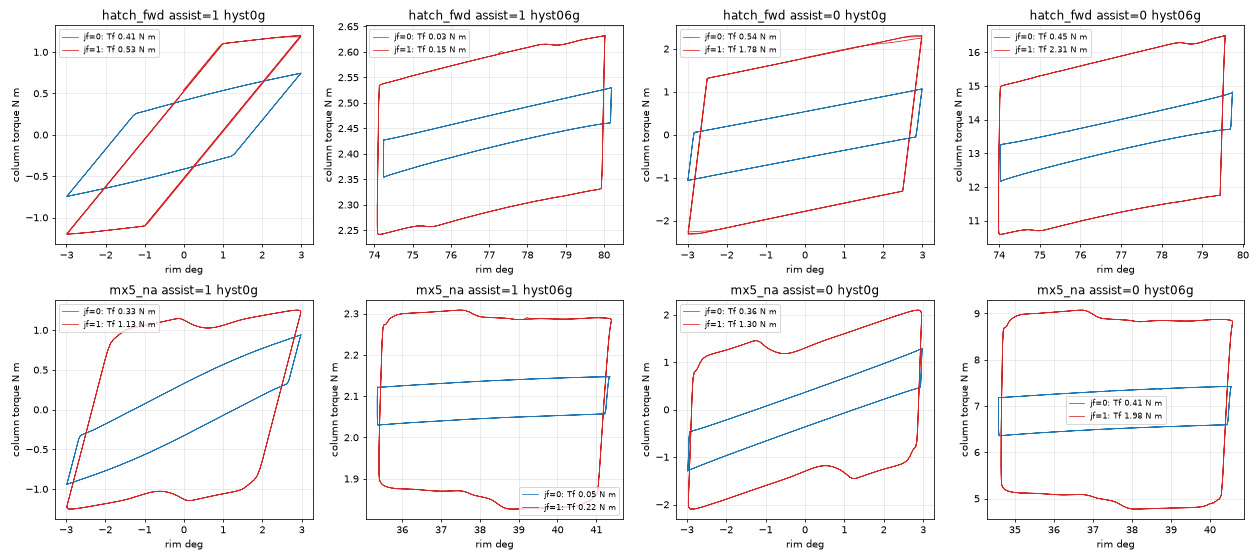
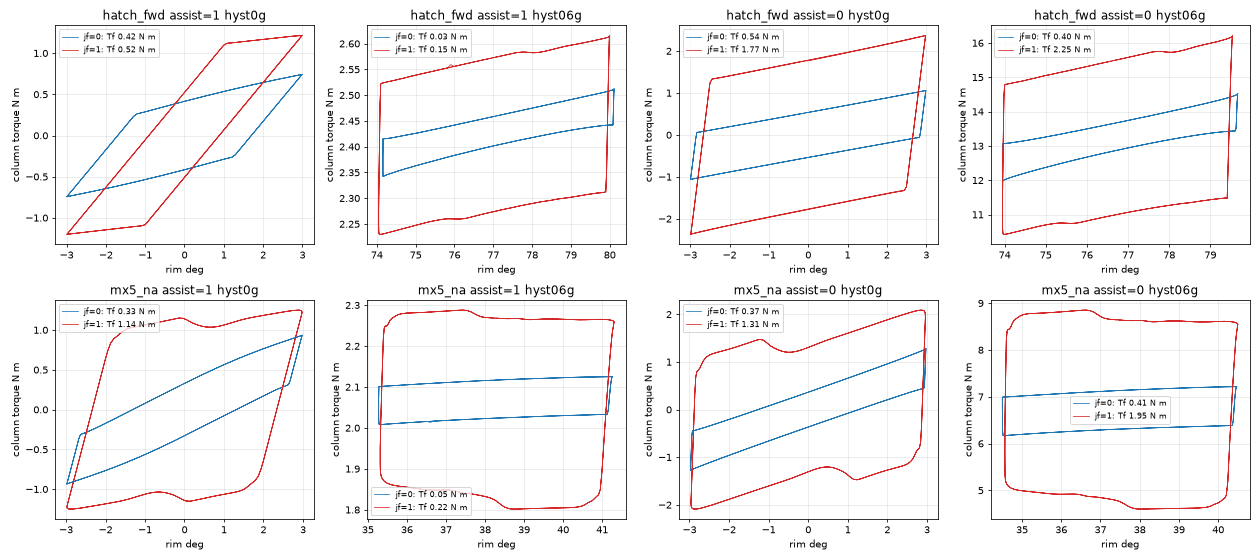
Joint friction: hysteresis re-validated on the current build (rim friction +50 % mx5 / +27 % hatch from 0 to 0.6 g, manual rack); refreshed table, loops, summary

diff --git a/docs/JOINT_FRICTION.md b/docs/JOINT_FRICTION.md
@@ -90,21 +90,21 @@ Rig: `PSET="car.joint_friction=J;steer.assist=A" build/mbcompare cars/<car>.ini 
 
 | car | assist | case | rim friction jf=0 (N m) | jf=1 (N m) | rack friction jf=0 (N) | jf=1 (N) |
 |---|---|---|---|---|---|---|
-| mx5_na | on | 0 g | 0.33 | 1.13 | 56 | 131 |
-| mx5_na | on | 0.6 g | 0.05 | 0.22 | 59 | 153 |
+| mx5_na | on | 0 g | 0.33 | 1.14 | 56 | 131 |
+| mx5_na | on | 0.6 g | 0.05 | 0.22 | 59 | 152 |
 | mx5_na | off | 0 g | 0.36 | 1.30 | 59 | 140 |
-| mx5_na | off | 0.6 g | 0.41 | 1.98 | 59 | 153 |
-| hatch_fwd | on | 0 g | 0.41 | 0.53 | 51 | 109 |
-| hatch_fwd | on | 0.6 g | 0.03 | 0.15 | 59 | 175 |
-| hatch_fwd | off | 0 g | 0.54 | 1.78 | 58 | 135 |
-| hatch_fwd | off | 0.6 g | 0.45 | 2.31 | 58 | 172 |
+| mx5_na | off | 0.6 g | 0.41 | 1.95 | 59 | 152 |
+| hatch_fwd | on | 0 g | 0.42 | 0.52 | 51 | 109 |
+| hatch_fwd | on | 0.6 g | 0.03 | 0.15 | 59 | 174 |
+| hatch_fwd | off | 0 g | 0.54 | 1.77 | 58 | 135 |
+| hatch_fwd | off | 0.6 g | 0.40 | 2.25 | 58 | 170 |
 
 ![loops](../results/joint_friction/hyst_loops.png)
 
 Findings:
 
 1. **Friction grows with load.** At the source (rack friction), it rises 10–60 % from straight-ahead to 0.6 g with
-   jf=1 and stays flat with jf=0. With a manual rack (assist off), rim friction grows +52 % (mx5) and +30 % (hatch).
+   jf=1 and stays flat with jf=0. With a manual rack (assist off), rim friction grows +50 % (mx5) and +27 % (hatch).
    This is the "moderate" load dependence Knapczyk & Maniowski report, dominated by the preloads.
 2. **Column friction stays at ~0.15 N m.** Column bearing radial loads are small, so the column is effectively preload only.
 3. **HPAS hides friction off-centre.** With the rotary valve open at 0.6 g, the hydraulic boost carries rack and
